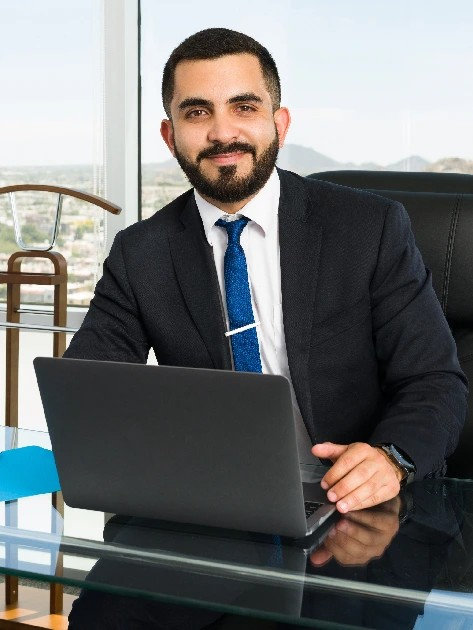
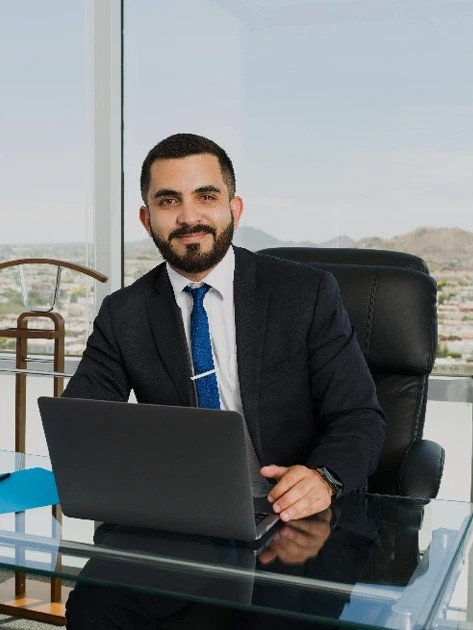
images

diff --git a/components/case-studies/CaseStudies1.tsx b/components/case-studies/CaseStudies1.tsx
@@ -1,32 +1,19 @@
 "use client";
 import Link from "next/link";
 import Image from "next/image";
-import { caseStudiesData } from "@/data/caseStudies";
+import { caseStudySlides } from "@/data/caseStudies";
 import React, { useEffect, useState } from "react";
 
 export default function CaseStudies1() {
-  const tabItems = [
-    { id: "tab-1", label: "Retirement Planning" },
-    { id: "tab-2", label: "Investment Advisory" },
-    { id: "tab-3", label: "Estate Planning" },
-    { id: "tab-4", label: "Tax Optimization" },
-  ];
-  const [activeTab, setActiveTab] = useState("Retirement Planning");
-  const [filteres, setFilteres] = useState(caseStudiesData);
+  const [filteres, setFilteres] = useState(caseStudySlides.slice(0, 6));
   const [isLoadedMore, setIsLoadedMore] = useState(false);
   useEffect(() => {
     if (isLoadedMore) {
-      setFilteres(
-        caseStudiesData.filter((elm) => elm.categories.includes(activeTab))
-      );
+      setFilteres(caseStudySlides);
     } else {
-      setFilteres(
-        caseStudiesData
-          .slice(0, 6)
-          .filter((elm) => elm.categories.includes(activeTab))
-      );
+      setFilteres(caseStudySlides.slice(0, 6));
     }
-  }, [activeTab, isLoadedMore]);
+  }, [isLoadedMore]);
 
   return (
     <div className="page-case-content tf-spacing-2">
@@ -34,33 +21,7 @@ export default function CaseStudies1() {
         <div className="row">
           <div className="col-12">
             <div className="flat-animate-tab">
-              <div className="wg-tab style-2 mb-60">
-                <ul className="tab-product" role="tablist">
-                  {tabItems.map((tab) => (
-                    <li className="nav-tab-item" key={tab.id}>
-                      <h6>
-                        <a
-                          href={`#${tab.id}`}
-                          className={activeTab === tab.label ? "active" : ""}
-                          onClick={(e) => {
-                            e.preventDefault(); // Prevent jump
-                            setActiveTab(tab.label);
-                          }}
-                        >
-                          {tab.label}
-                        </a>
-                      </h6>
-                    </li>
-                  ))}
-                </ul>
-              </div>
-              <div className="tab-content">
-                <div
-                  className="tab-pane active show"
-                  id="tab-1"
-                  role="tabpanel"
-                >
-                  <div className="case-list">
+              <div className="case-list">
                     <div className="layout-grid-3 g-30 loadmore-item style-2 mb-40">
                       {filteres.map((item, index) => (
                         <div
@@ -71,10 +32,10 @@ export default function CaseStudies1() {
                           <div className="image">
                             <Image
                               src={item.imgSrc}
-                              alt=""
+                              alt={item.title}
                               className="lazyload"
-                              width={item.width}
-                              height={item.height}
+                              width={473}
+                              height={630}
                             />
                             <Link
                               href={`/case-studies-details`}
@@ -96,10 +57,7 @@ export default function CaseStudies1() {
                                 {item.title}
                               </Link>
                             </h5>
-                            <div className="text text-btn-uppercase label">
-                              {item.label}
-                            </div>
-                            <div className="desc">{item.desc}</div>
+                            <div className="desc">{item.description}</div>
                           </div>
                         </div>
                       ))}
@@ -117,8 +75,6 @@ export default function CaseStudies1() {
                       ""
                     )}
                   </div>
-                </div>
-              </div>
             </div>
           </div>
         </div>

diff --git a/data/caseStudies.ts b/data/caseStudies.ts
@@ -173,7 +173,7 @@ export const taxProjects = [
 export const caseStudiesData = [
   {
     id: 21,
-    imgSrc: "/image/case-studies-item/case-studies-5.jpg",
+    imgSrc: "/image/case-studies-item/case-studies-9.jpg",
     width: 473,
     height: 630,
     title: "Revamping Operations for Higher Efficiency",
@@ -183,7 +183,7 @@ export const caseStudiesData = [
   },
   {
     id: 22,
-    imgSrc: "/image/case-studies-item/case-studies-6.jpg",
+    imgSrc: "/image/case-studies-item/case-studies-10.jpg",
     width: 473,
     height: 630,
     title: "Strategic Growth Plan for Market Expansion",
@@ -193,7 +193,7 @@ export const caseStudiesData = [
   },
   {
     id: 23,
-    imgSrc: "/image/case-studies-item/case-studies-7.jpg",
+    imgSrc: "/image/case-studies-item/case-studies-11.jpg",
     width: 473,
     height: 630,
     title: "Financial Revamp for Sustainable Profitability",
@@ -203,7 +203,7 @@ export const caseStudiesData = [
   },
   {
     id: 24,
-    imgSrc: "/image/case-studies-item/case-studies-8.jpg",
+    imgSrc: "/image/case-studies-item/case-studies-12.jpg",
     width: 473,
     height: 630,
     title: "Technology Integration for Enhanced Performance",

diff --git a/app/(case-studies)/customer-stories/page.tsx b/app/(case-studies)/customer-stories/page.tsx
@@ -1,0 +1,33 @@
+import CaseStudies1 from "@/components/case-studies/CaseStudies1";
+import React from "react";
+import Breadcumb from "@/components/common/Breadcumb";
+import { Metadata } from "next";
+export const metadata: Metadata = {
+  title:
+    "Case Studies 01 || FinWice - Business & Finance Consulting - React Nextjs Template",
+  description:
+    "FinWice - Business & Finance Consulting - React Nextjs Template",
+};
+export default function page() {
+  return (
+    <>
+      <div className="page-title style-1 bg-img-15">
+        <div className="tf-container">
+          <div className="page-title-content">
+            <Breadcumb pageName="Customer Stories" />
+            <h2 className="title-page-title">Customer Stories</h2>
+            {/* <div className="sub-title body-2">
+              Explore success stories from businesses that achieved growth
+              through our tailored
+              <br />
+              strategies and solutions.
+            </div> */}
+          </div>
+        </div>
+      </div>
+      <div className="main-content">
+        <CaseStudies1 />
+      </div>
+    </>
+  );
+}

diff --git a/app/(case-studies)/case-studies-1/page.tsx b/app/(case-studies)/case-studies-1/page.tsx
@@ -1,0 +1,33 @@
+import CaseStudies1 from "@/components/case-studies/CaseStudies1";
+import React from "react";
+import Breadcumb from "@/components/common/Breadcumb";
+import { Metadata } from "next";
+export const metadata: Metadata = {
+  title:
+    "Case Studies 01 || FinWice - Business & Finance Consulting - React Nextjs Template",
+  description:
+    "FinWice - Business & Finance Consulting - React Nextjs Template",
+};
+export default function page() {
+  return (
+    <>
+      <div className="page-title style-1 bg-img-15">
+        <div className="tf-container">
+          <div className="page-title-content">
+            <Breadcumb pageName="Case Studies" />
+            <h2 className="title-page-title">Case Studies</h2>
+            <div className="sub-title body-2">
+              Explore success stories from businesses that achieved growth
+              through our tailored
+              <br />
+              strategies and solutions.
+            </div>
+          </div>
+        </div>
+      </div>
+      <div className="main-content">
+        <CaseStudies1 />
+      </div>
+    </>
+  );
+}

diff --git a/data/menu.ts b/data/menu.ts
@@ -133,7 +133,7 @@ export const solutionsLinks = [
 ];
 
 export const corpInfoLinks = [
-  { title: "Customer Stories", href: "/corp-information/customer-stories" },
+  { title: "Customer Stories", href: "/customer-stories" },
   { title: "News & Updates", href: "/news-updates" },
   { title: "Careers", href: "/career" },
 ];
